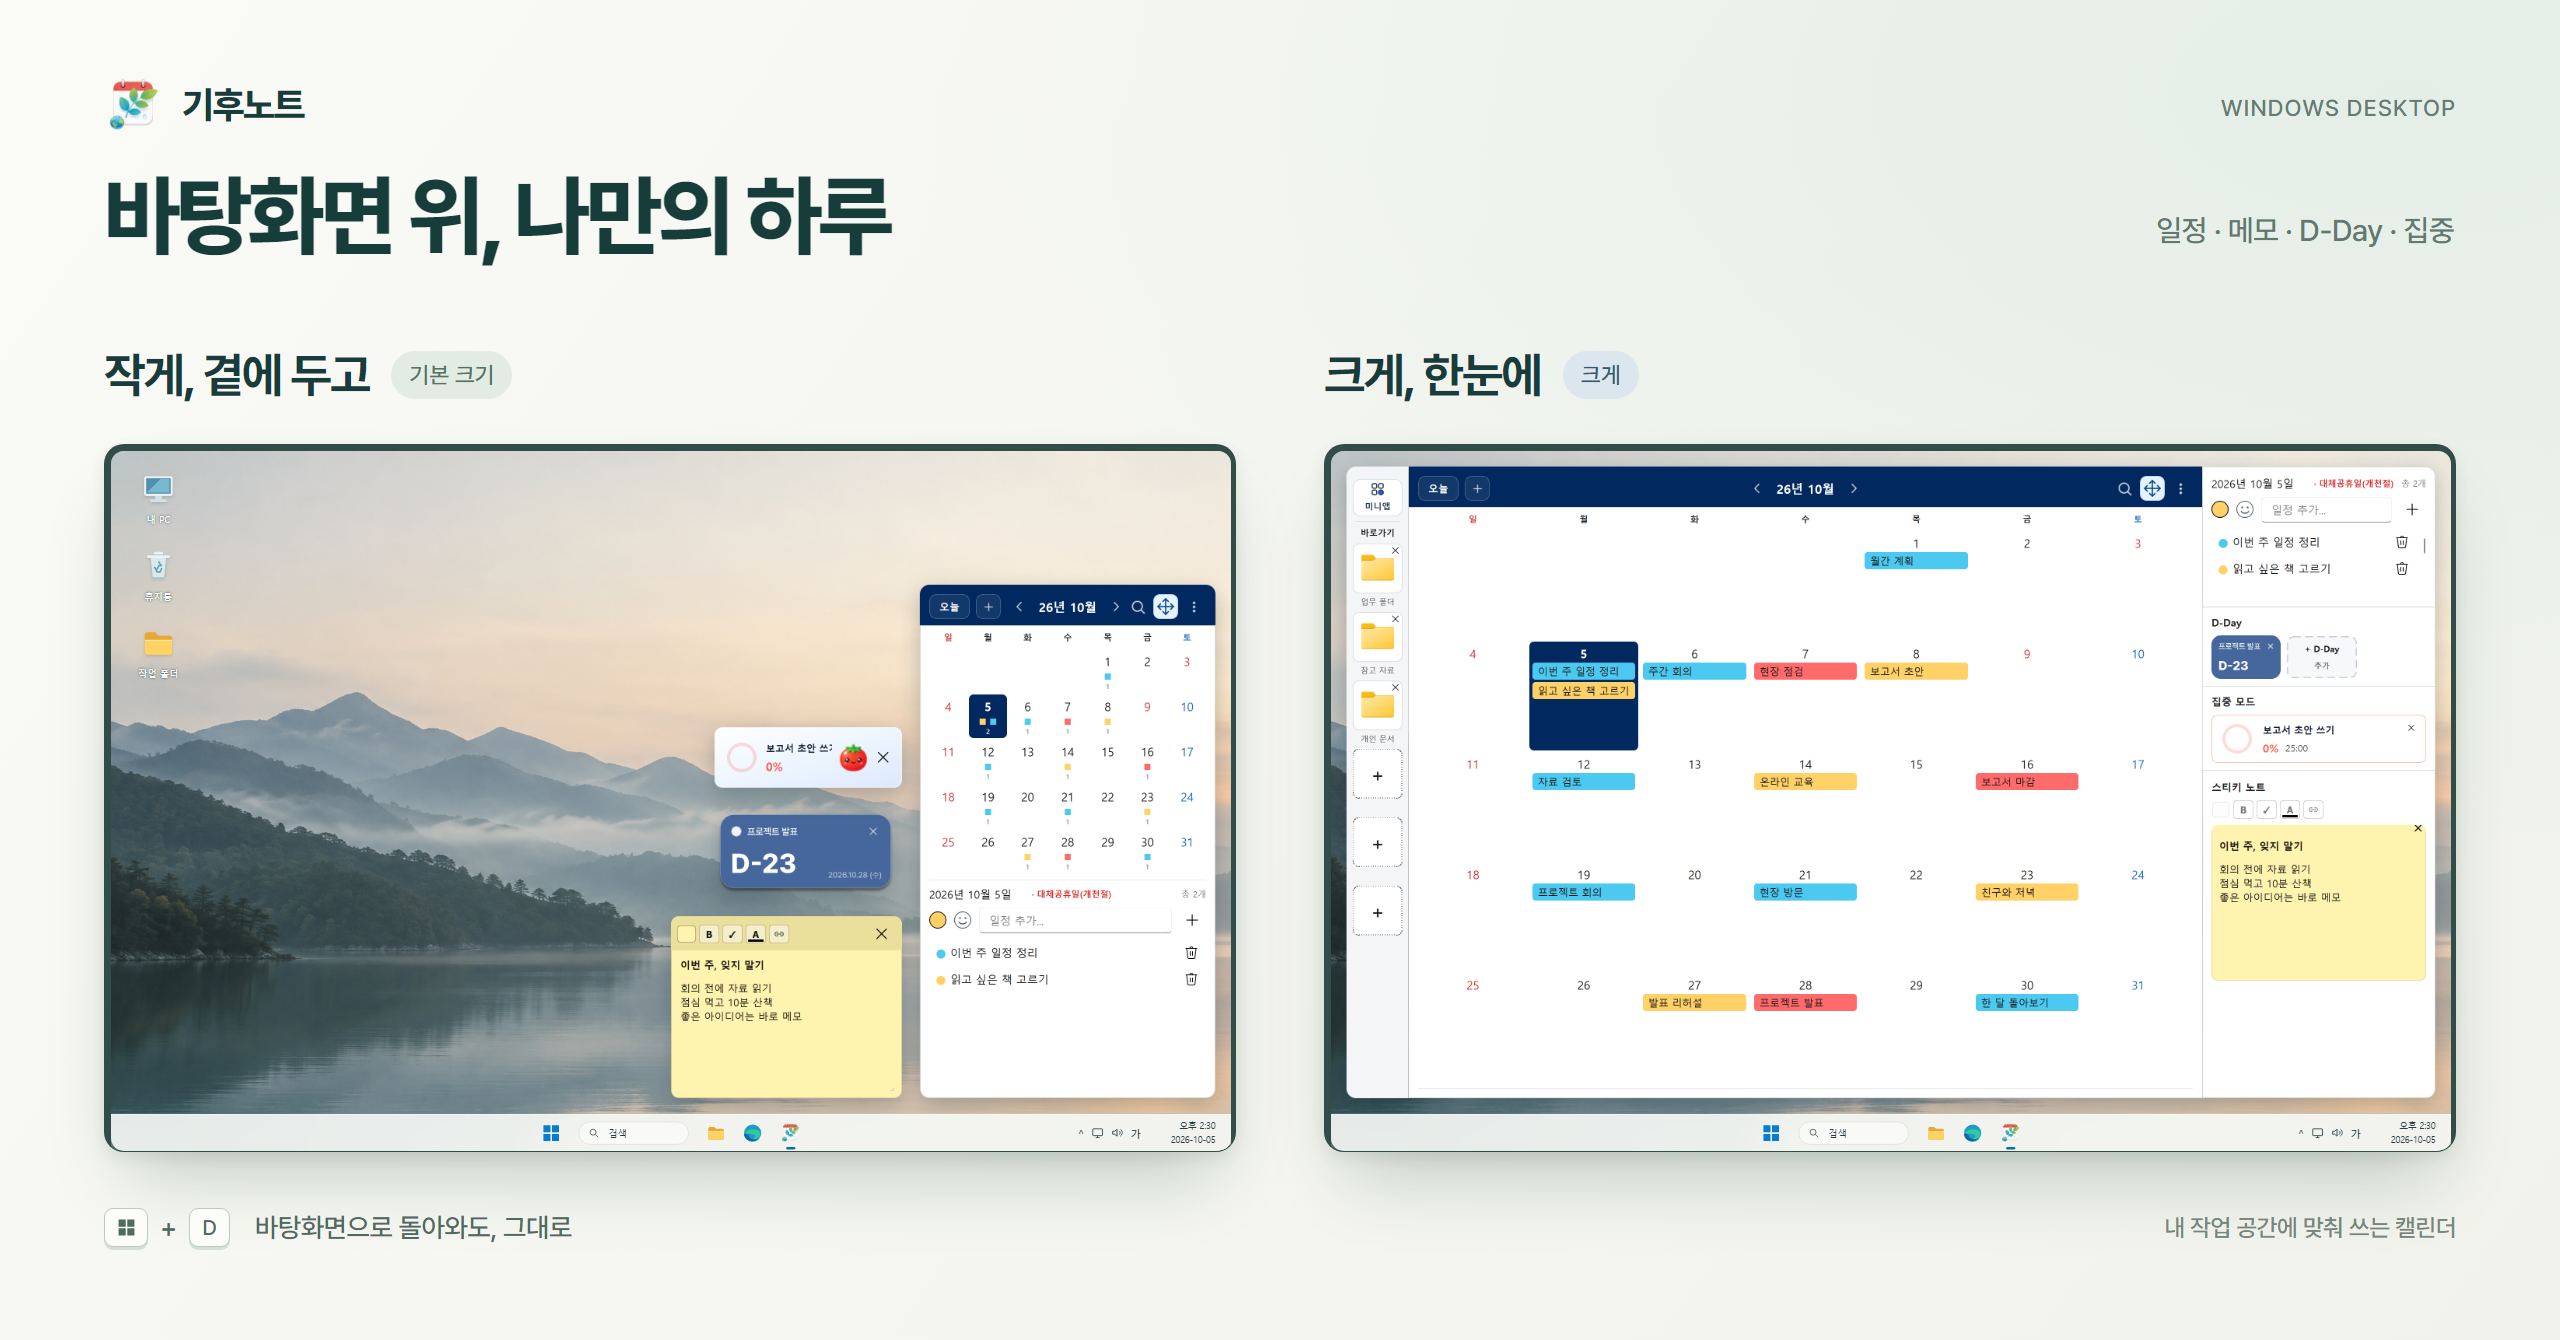
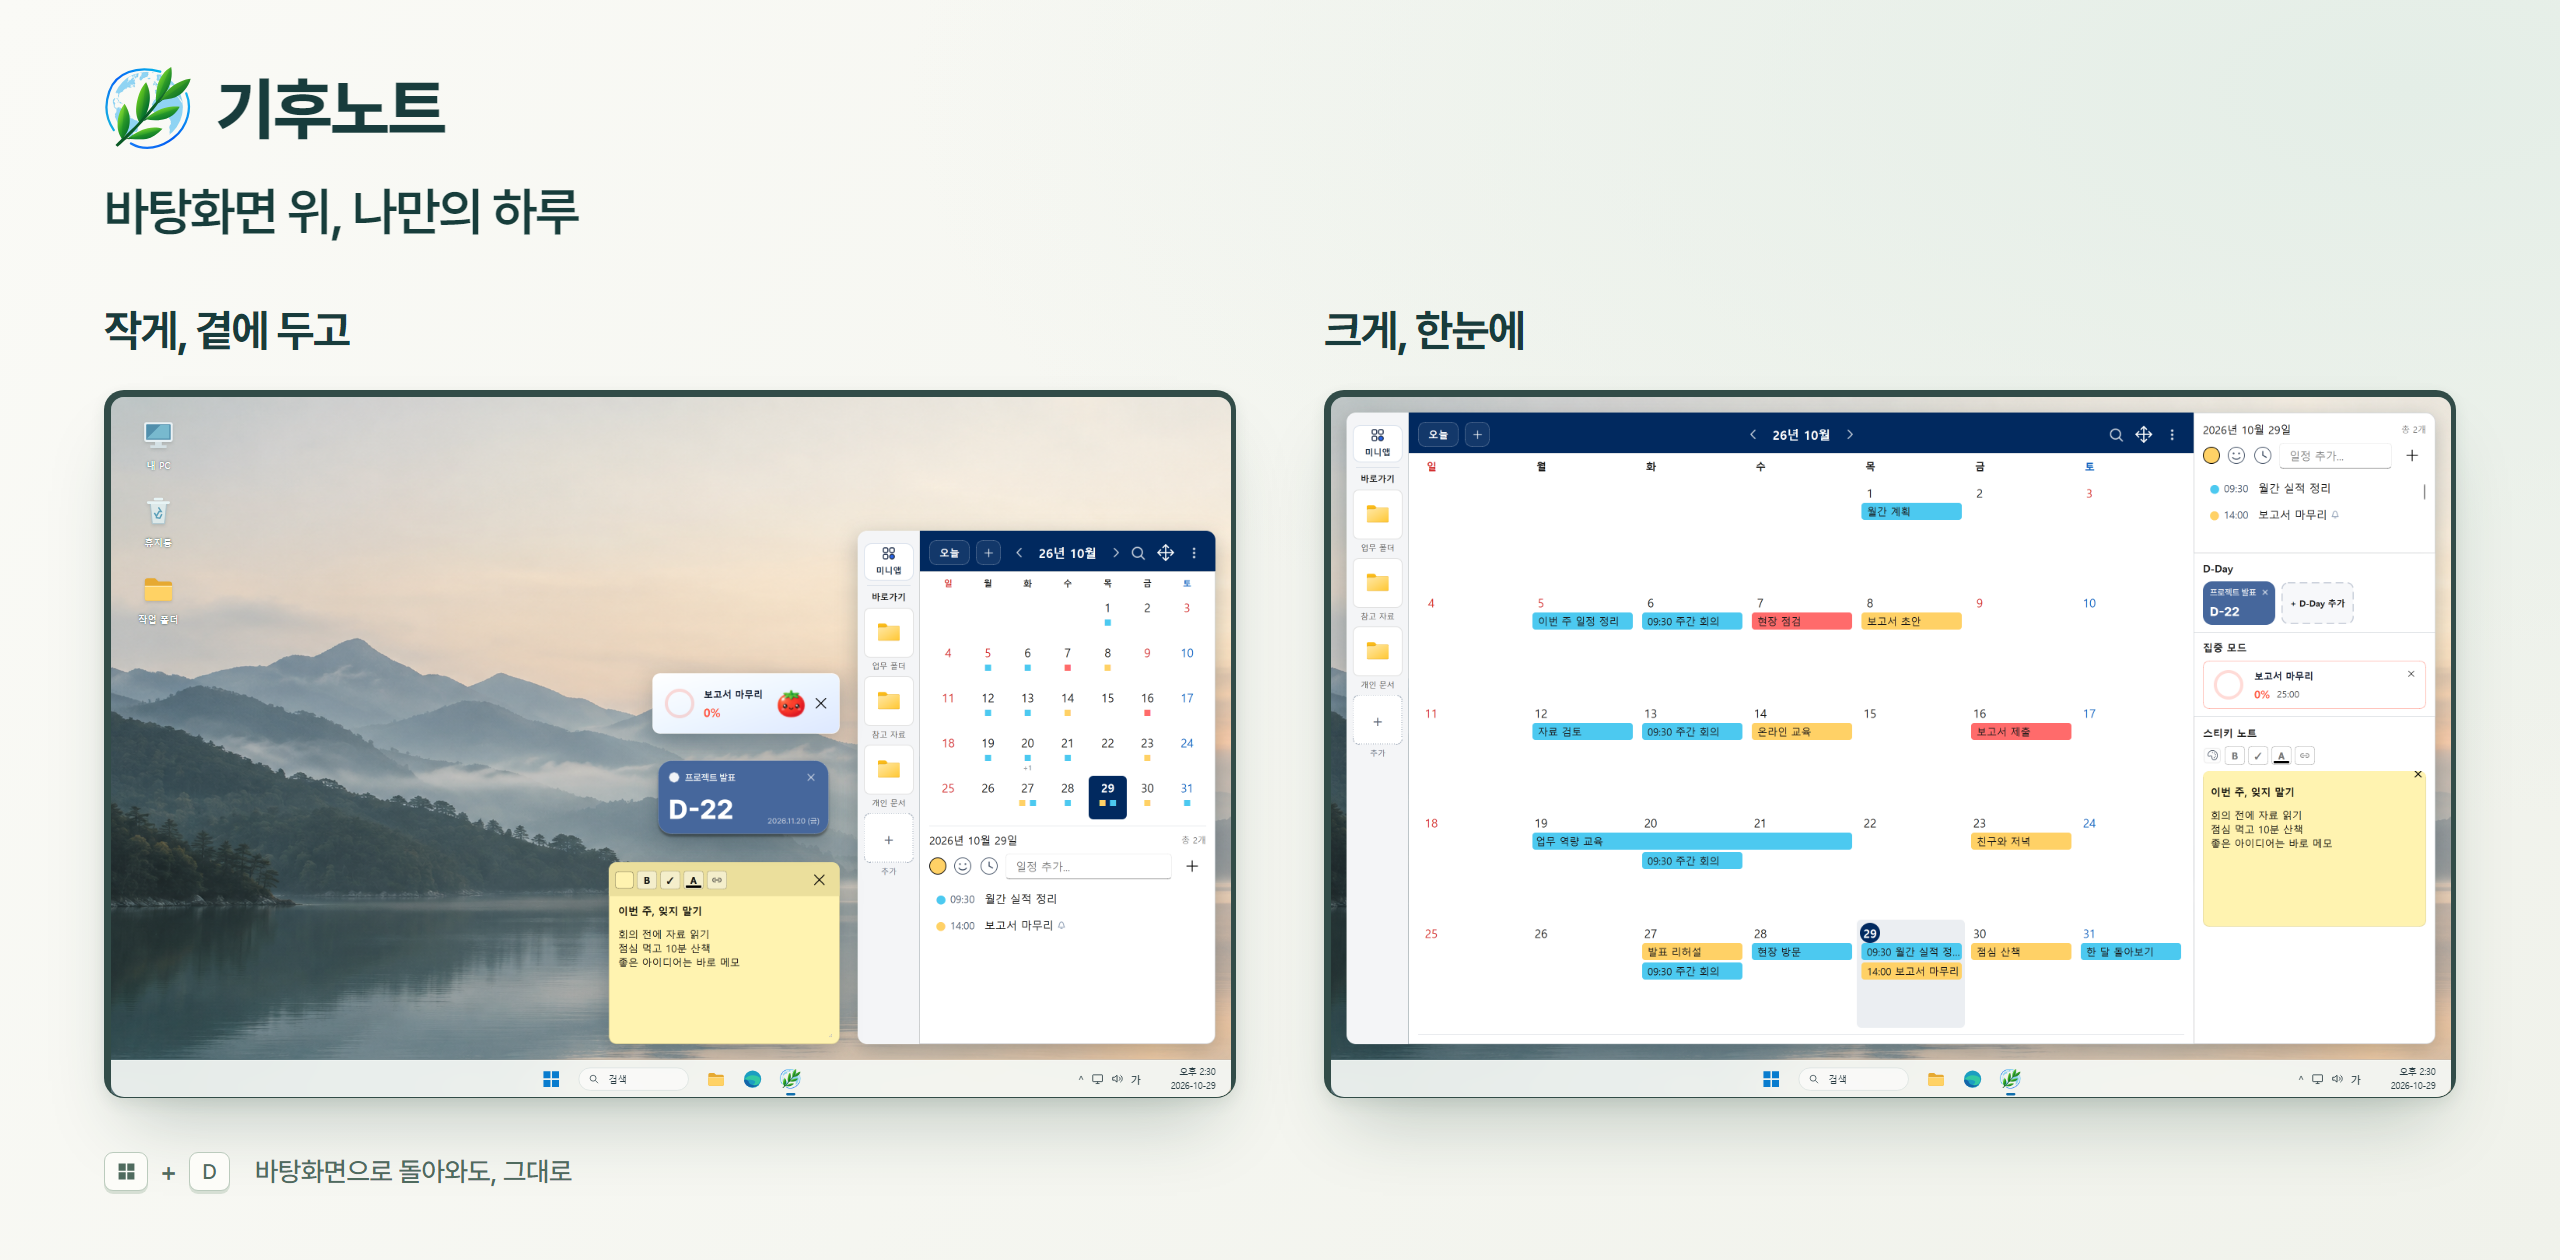
docs: refresh README hero for v4.5

diff --git a/docs/work/2026-10-29-readme-hero-refresh.md b/docs/work/2026-10-29-readme-hero-refresh.md
@@ -1,0 +1,45 @@
+# 작업 기록: README 대표 이미지 v4.5 갱신
+
+작성일: 2026-10-29 / 상태: 제작·검증 완료 (게시 영수증 별도)
+
+## 목표와 범위
+
+- 목표: 사용자가 승인한 구성으로 앱 이름·새 아이콘을 강조하고 현재 v4.5 화면으로 README 대표 이미지를 갱신한 뒤 main에 push한다.
+- 변경 대상: `readme/app.png`, `README.md` 대체 텍스트, 이 작업 기록.
+- 데이터 영향: 없음. 실제 UI 캡처에는 새 `output/harness/` 하위 합성 데이터만 사용한다.
+- 제외 범위: 제품 코드·DB·salt·설정·의존성·EXE·공개 Release 변경, 실사용 데이터/바탕화면 접근.
+- 시작 상태: main `59495d0`, 원격 main과 일치, 추적 파일 변경 없음. 기존 미추적 작업 문서 12개와 `motion/`은 보존하고 커밋에서 제외한다.
+
+## 완료 조건
+
+- [x] 오른쪽 WINDOWS DESKTOP·기능 나열 삭제, 이름/아이콘 확대, 슬로건 축소.
+- [x] 기본/크게 중복 배지와 하단 오른쪽 문구 삭제, 배경·좌우 비교·Win+D 안내 유지.
+- [x] 실제 v4.5 기본/크게 UI와 새 아이콘으로 갱신, 기본 사이드바·일정 시각/반복/기간 예시 반영.
+- [x] 원본 및 README 표시 크기 시각 확인, PNG·링크·변경 범위 검증.
+- 게시 단계: 이번 세 파일만 커밋하고 `git push origin main`의 실제 결과와 원격 HEAD를 아래 후속 영수증에 기록한다.
+
+## 결정과 진행
+
+- 2026-10-29: 사용자가 제안 전체와 제작·push를 승인했다. 기존 디자인 소스 `output/design/readme-desktop-hero/hero.html`과 배경을 재사용해 새 작업 폴더에서 수정한다. 앱 글자를 생성 이미지로 다시 그리지 않고 실제 Windows Qt 위젯을 캡처한다.
+- 정본: [UI 계약](../UI_PATTERNS.md), [아키텍처](../ARCHITECTURE.md), [검증](../TESTING.md). 앱 변경이 없는 문서/이미지 작업이므로 링크·사실·시각·변경 범위를 확인한다.
+- 최종 구성: 이름 37→68px, 새 SVG 아이콘 58→88px, 슬로건 88→52px. 상단 여백을 정리해 PNG는 2560×1340→2560×1260이다. 오른쪽 두 문구·크기 배지·하단 오른쪽 문구를 제거하고 두 비교 제목과 Win+D 안내는 유지한다.
+- 캡처: 2026-10-29 합성 일정, 바로가기 3개, 스티키·D-Day·집중 위젯을 실제 Windows Qt에서 DPR 2로 그렸다. 기본 460×660, 크게 1400×812를 동일한 1440×900 가상 바탕화면(작업 영역 1440×852)에 원래 비율로 배치했다. 반복 회의·기간 교육·시각/알림 예시가 보이며 시계 버튼·오늘 원형 표시·새 아이콘을 반영했다.
+- 배경과 작업 표시줄은 기존 디자인 요소다. 실사용 바탕화면은 수집하지 않았고, native 보호 hook은 합성 설정에서만 끈 상태로 캡처했다. Win+D 실기 검증으로 간주하지 않는다.
+- 제작 소스는 `output/design/readme-hero-v45/`에 보존했다. `capture.py <새 실행 ID>`로 합성 캡처를 만들고 `hero.html` 경로를 맞춘 뒤 `render.py`로 렌더한다. 이전 PNG는 `output/harness/20261029-readme-hero-v45/app-before.png`에 보존했다.
+
+## 검증 증거
+
+| 명령/범위 | 상태 | 실행 ID / 결과 경로 | 검사 입력·유의사항 |
+|---|---|---|---|
+| `tools/verify.py doctor` | 통과 | `20261029-202330-de9dc52557/summary.md` | Windows/Python 3.13·lock 일치 |
+| 합성 데이터 Windows Qt 캡처 | 통과 | `20261029-readme-hero-v45-capture/capture.json` | 기본 460×660 / 크게 1400×812 / DPR 2, 실제 데이터와 native hook 사용 안 함 |
+| `output/design/readme-hero-v45/verify_asset.py` | 통과 | `output/harness/20261029-readme-hero-v45/summary.md`, `result.json`, `layout.json` | PNG·브라우저 리소스/폰트/배치 경계·README/작업 기록 링크·diff·기존 파일 해시 확인 |
+| 원본/README 시각 확인 | 통과 | `output/design/readme-hero-v45/hero-final.png`, `preview-1040.png` | 2560px 원본과 1040px 표시에서 위계·구도·잘림 확인 |
+| 전체 pytest / release / 실기 Win+D·KVM | 미실행 | 해당 없음 | 제품 코드·EXE 변경 없는 대표 이미지 작업 |
+
+## 미해결과 인계
+
[1 lines of base64/hex data omitted]
+- 남은 문제 / 수동 확인: 앱 동작에 관한 새 검증 결과는 주장하지 않는다. 변경 대상 외 추적 파일 530개와 기존 미추적 파일 37개의 SHA-256을 보존했다.
+- 변경한 정본 문서: README 대표 이미지와 대체 텍스트.
+- 배포·커밋·push: 사용자 승인에 따라 `README.md`, `readme/app.png`, 이 기록만 커밋한다. 커밋 직전에 기록했으므로 실제 결과·커밋 ID·원격 HEAD는 `output/harness/20261029-readme-hero-v45/publish.json`과 `push.log`를 따른다. EXE 배포는 하지 않는다.

diff --git a/README.md b/README.md
@@ -3,7 +3,7 @@
 Windows 바탕화면에서 쓰는 **오프라인 전용** 캘린더·메모·위젯 앱입니다.
 일정과 메모를 이 PC에만 암호화해 저장하며, 외부 서버로 아무것도 보내지 않습니다.
 
-<img src="readme/app.png" alt="바탕화면 위의 기후노트 — 작게 곁에 두는 기본 크기와 일정·메모·D-Day·집중 모드를 한눈에 펼치는 크게 모드">
+<img src="readme/app.png" alt="기후노트 v4.5 — 바로가기 사이드바와 위젯을 곁에 두는 기본 크기, 시각·반복·기간 일정과 메모·D-Day·집중 모드를 한눈에 펼치는 크게 모드">
 
 현재 소스는 **v4.5**이며 최종 검토용 EXE 검증을 완료했습니다. 공개 릴리즈 게시는 별도이며 배포 여부와 검증 기록은 [상세 안내](README_detail.md)를 확인하세요.
 
